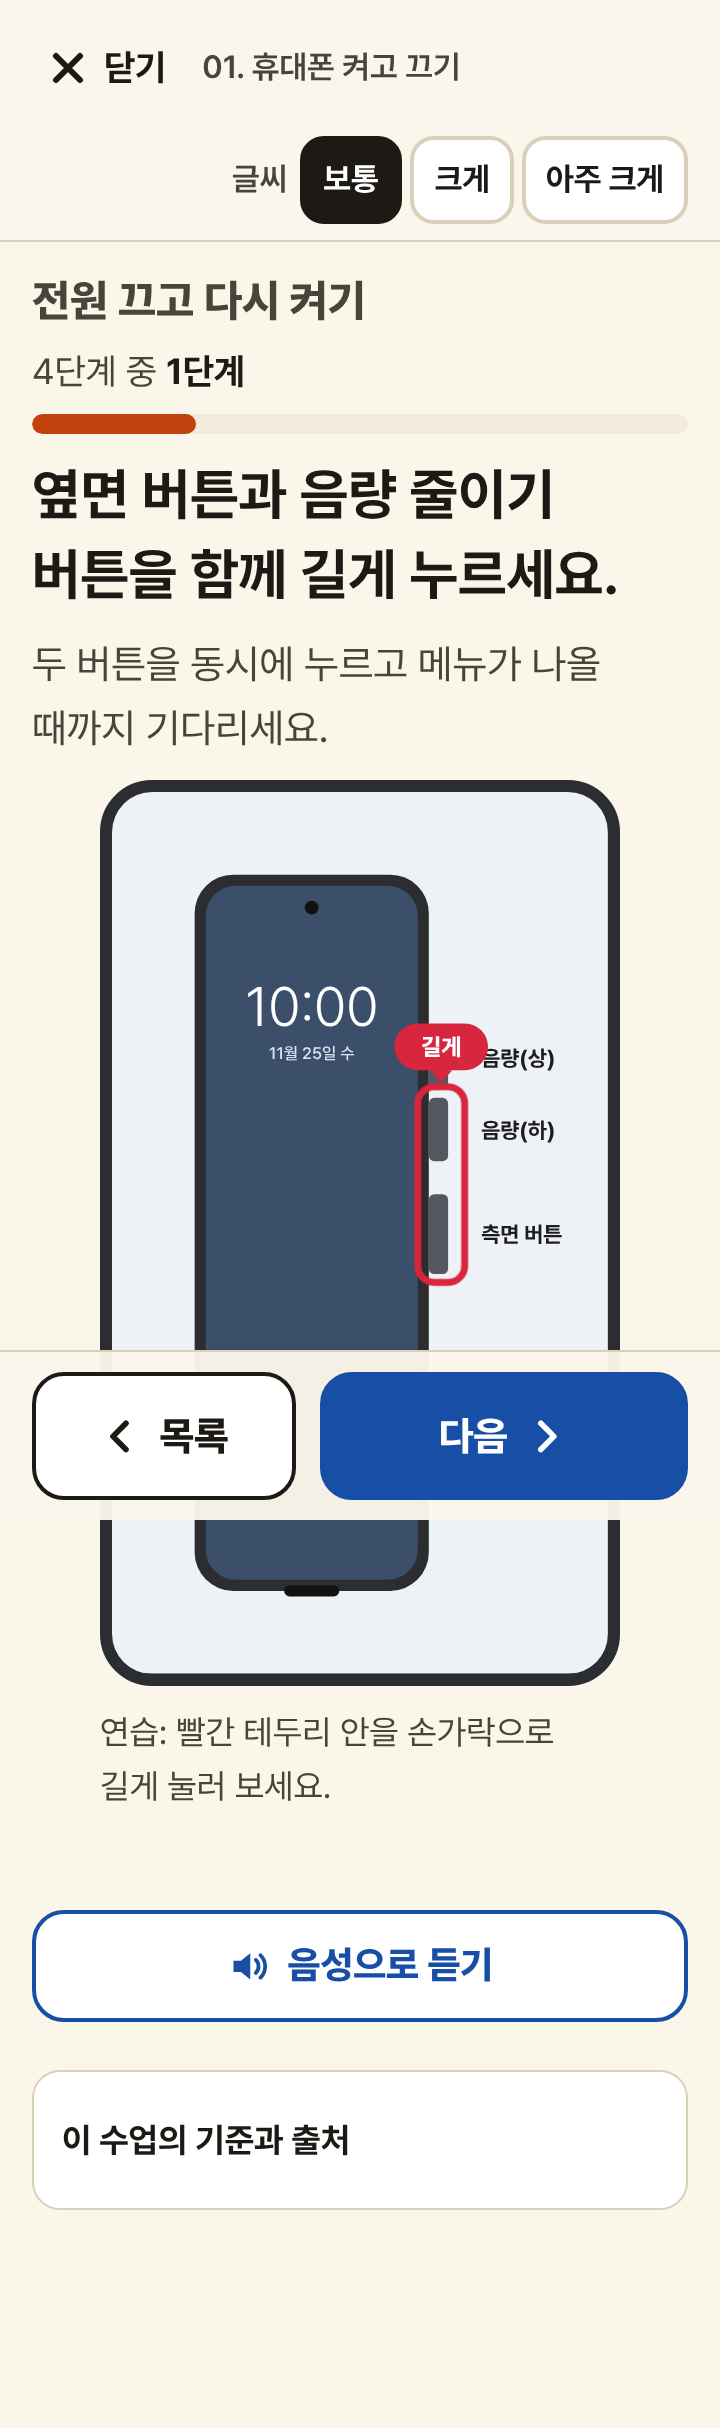
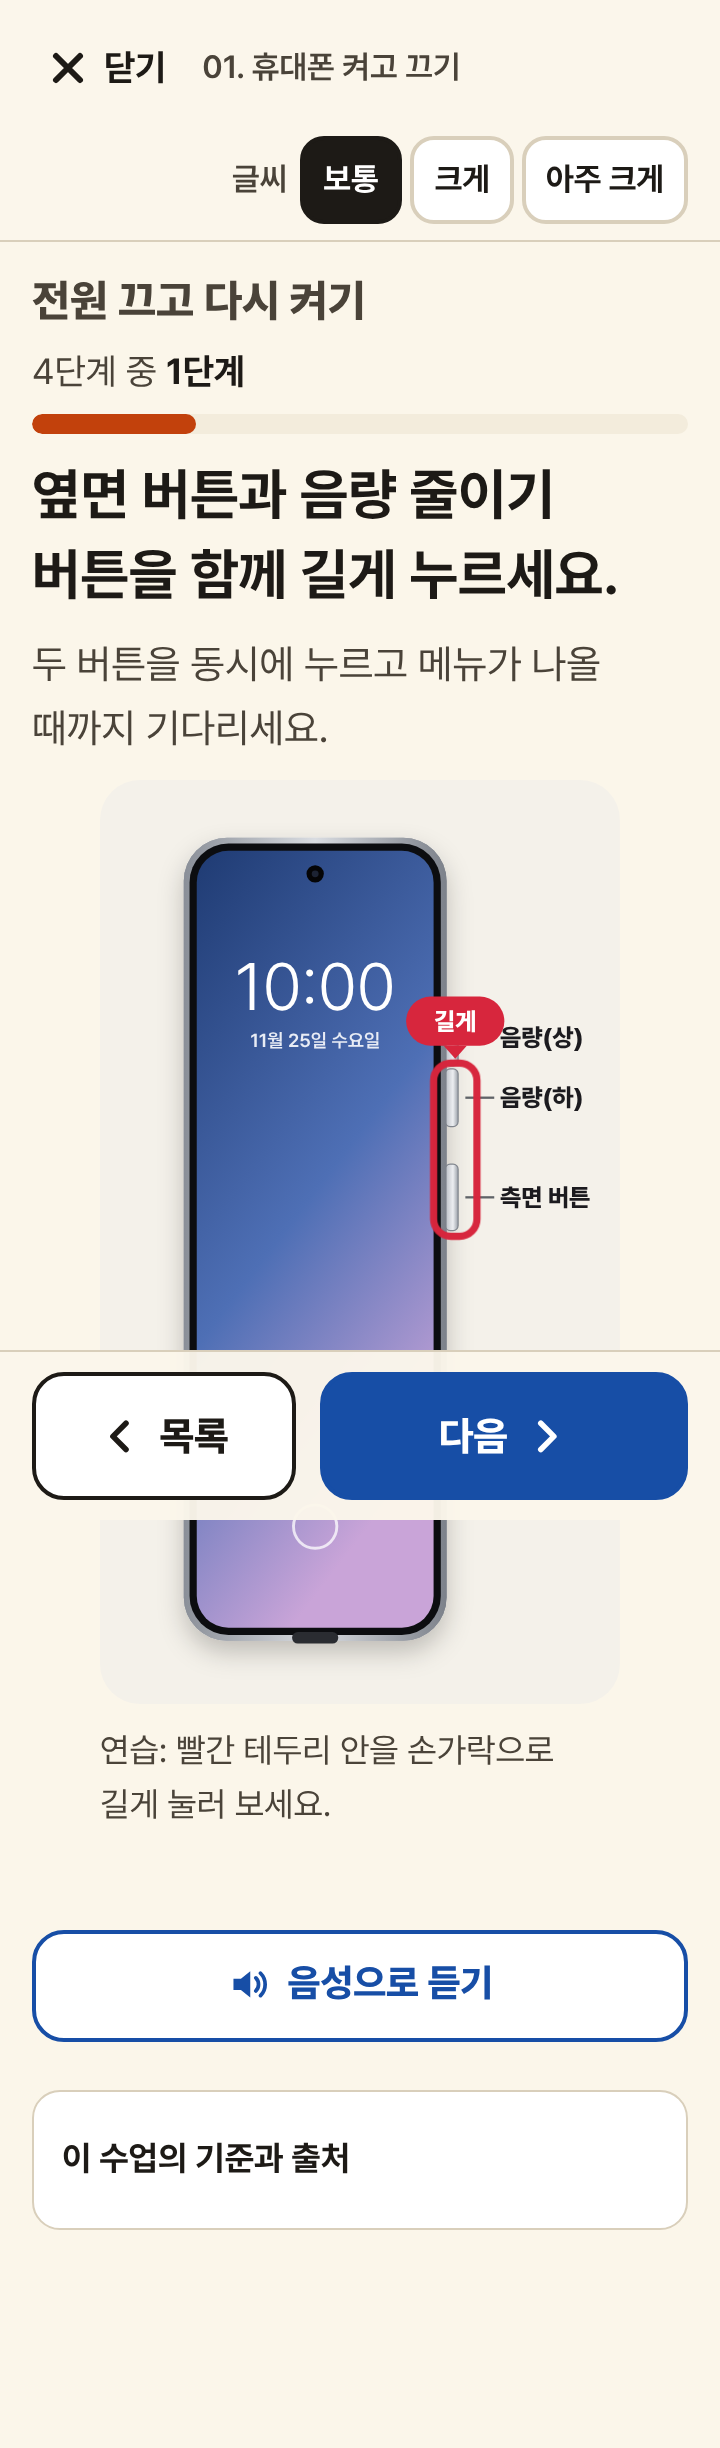
휴대폰 실물 그림: 금속 테두리·버튼·전면 카메라·잠금화면, 실물 카드는 바깥 화면 테두리 없이
Claude-Session: https://claude.ai/code/session_01Q3BcEgi969WHnWAarB2Rma

diff --git a/assets/screens.js b/assets/screens.js
@@ -9,7 +9,7 @@
  * - 실제 갤럭시 사진으로 바꿀 때는 card.photo 를 넣으면 이 그림 대신 사진이 쓰인다(app.js 참고).
  */
 
-import { appIconSvg, appInfo, settingIconSvg } from './apps.js?v=20261125.0747';
+import { appIconSvg, appInfo, settingIconSvg } from './apps.js?v=20261125.0752';
 
 const W = 360;
 const H = 640;
@@ -140,33 +140,55 @@ function wrapText(s, max) {
 const KINDS = {
   /** 휴대폰 앞면과 옆면 버튼 */
   side(c, s) {
-    c.rect(0, 0, W, H, '#EEF1F5');
-    c.rect(60, 60, 170, 520, '#2B2D31', 28);
-    c.rect(68, 68, 154, 504, s.screenOff ? '#0B0B0D' : '#3B4F6B', 22);
-    c.add('<circle cx="145" cy="84" r="5" fill="#111"/>');
-    if (!s.screenOff) {
-      c.text(145, 170, '10:00', { size: 40, fill: '#fff', weight: 300, anchor: 'middle' });
-      c.text(145, 194, '11월 25일 수', { size: 12, fill: '#DCE3EE', anchor: 'middle' });
-    }
-    // 오른쪽 옆면 버튼(위에서부터 음량(상), 음량(하), 측면 버튼). 이름표는 테두리 바깥에 둔다.
-    const btn = (name, label, y, h) => {
-      c.rect(230, y, 14, h, '#55585E', 4);
-      c.reg(name, 222, y - 6, 34, h + 12);
-      c.text(268, y + h / 2 + 6, label, { size: 16, fill: C.ink, weight: 700 });
+    // 갤럭시 S26 실물에 가깝게: 금속 테두리, 얇은 화면 테두리, 전면 카메라 구멍, 오른쪽 옆면 버튼
+    c.rect(0, 0, W, H, '#F4F1EA');
+    c.add(`<defs>
+      <linearGradient id="sv-frame" x1="0" x2="1"><stop offset="0" stop-color="#8A8F98"/><stop offset="0.5" stop-color="#D9DCE1"/><stop offset="1" stop-color="#7C818A"/></linearGradient>
+      <linearGradient id="sv-btn" x1="0" x2="1"><stop offset="0" stop-color="#B9BDC4"/><stop offset="0.6" stop-color="#ECEEF1"/><stop offset="1" stop-color="#9AA0A8"/></linearGradient>
+      <linearGradient id="sv-wall" x1="0" y1="0" x2="0.4" y2="1"><stop offset="0" stop-color="#1F3B73"/><stop offset="0.55" stop-color="#4E6FB5"/><stop offset="1" stop-color="#C9A4D8"/></linearGradient>
+      <filter id="sv-shadow" x="-20%" y="-10%" width="140%" height="120%"><feDropShadow dx="0" dy="8" stdDeviation="9" flood-color="#000" flood-opacity="0.22"/></filter>
+    </defs>`);
+    const X = 58; const Y = s.cable ? -260 : 40; const PW = 182; // 충전 카드는 아래쪽이 보이게 올려 그림
+    const ph = 556; // 휴대폰 높이(가로:세로 ≈ 1:2.1)
+    // 오른쪽 옆면 버튼(테두리보다 살짝 튀어나옴): 위에서부터 음량(상)·음량(하) 한 줄 버튼, 그 아래 측면 버튼
+    const bx = X + PW - 1;
+    const btn = (name, y, h) => {
+      c.add(`<rect x="${bx}" y="${y}" width="9" height="${h}" rx="3.5" fill="url(#sv-btn)" stroke="#80858D" stroke-width="0.8"/>`);
+      c.reg(name, bx - 10, y - 6, 34, h + 12);
     };
-    btn('음량(상) 버튼', '음량(상)', 170, 46);
-    btn('음량(하) 버튼', '음량(하)', 222, 46);
-    btn('측면 버튼', '측면 버튼', 292, 58);
-    c.reg('측면 버튼과 음량(하) 버튼', 220, 212, 38, 146);
-    // 아래쪽 충전 연결잭
-    c.rect(125, 576, 40, 8, '#111', 4);
-    c.reg('충전 연결잭', 105, 568, 80, 40);
-    if (s.cable) {
-      c.rect(131, 588, 28, 30, '#E0E0E0', 4);
-      c.rect(139, 618, 12, 22, '#BDBDBD', 3);
-      c.text(196, 612, '충전 연결잭', { size: 15, fill: C.ink, weight: 700 });
+    c.add(`<g filter="url(#sv-shadow)"><rect x="${X}" y="${Y}" width="${PW}" height="${ph}" rx="30" fill="url(#sv-frame)"/></g>`);
+    btn('음량(상) 버튼', Y + 118, 40);
+    btn('음량(하) 버튼', Y + 160, 40);
+    btn('측면 버튼', Y + 226, 46);
+    c.add(`<rect x="${X}" y="${Y}" width="${PW}" height="${ph}" rx="30" fill="url(#sv-frame)"/>`);
+    c.add(`<rect x="${X + 4}" y="${Y + 4}" width="${PW - 8}" height="${ph - 8}" rx="27" fill="#0C0D10"/>`);
+    // 화면
+    const sx = X + 9; const sy = Y + 9; const sw = PW - 18; const sh = ph - 18;
+    c.add(s.screenOff ? `<rect x="${sx}" y="${sy}" width="${sw}" height="${sh}" rx="22" fill="#050506"/>` : `<rect x="${sx}" y="${sy}" width="${sw}" height="${sh}" rx="22" fill="url(#sv-wall)"/>`);
+    c.add(`<circle cx="${X + PW / 2}" cy="${sy + 16}" r="6" fill="#050506"/><circle cx="${X + PW / 2}" cy="${sy + 16}" r="2.4" fill="#1C2333"/>`);
+    if (!s.screenOff) {
+      c.text(X + PW / 2, sy + 110, '10:00', { size: 46, fill: '#fff', weight: 300, anchor: 'middle' });
+      c.text(X + PW / 2, sy + 136, '11월 25일 수요일', { size: 13, fill: '#E8ECF5', anchor: 'middle', weight: 600 });
+      c.add(`<circle cx="${X + PW / 2}" cy="${sy + sh - 70}" r="15" fill="none" stroke="rgba(255,255,255,0.75)" stroke-width="2"/>`);
     }
-    if (s.caption) c.text(180, 40, s.caption, { size: 16, anchor: 'middle', weight: 700, fill: C.ink });
+    // 버튼 이름표: 가는 선으로 이어서 테두리 밖에 표시
+    const tag = (label, y) => {
+      c.add(`<line x1="${bx + 14}" y1="${y}" x2="${bx + 34}" y2="${y}" stroke="#5F6368" stroke-width="1.6"/>`);
+      c.text(bx + 38, y + 6, label, { size: 17, fill: C.ink, weight: 800 });
+    };
+    tag('음량(상)', Y + 138);
+    tag('음량(하)', Y + 180);
+    tag('측면 버튼', Y + 249);
+    c.reg('측면 버튼과 음량(하) 버튼', bx - 10, Y + 154, 34, 124);
+    // 아래쪽 USB-C 충전 연결잭
+    const px = X + PW / 2;
+    c.add(`<rect x="${px - 16}" y="${Y + ph - 6}" width="32" height="8" rx="4" fill="#2A2C31"/>`);
+    c.reg('충전 연결잭', px - 40, Y + ph - 26, 80, 44);
+    if (s.cable) {
+      c.add(`<rect x="${px - 13}" y="${Y + ph + 4}" width="26" height="22" rx="5" fill="#F2F2F2" stroke="#C9CCD1"/><rect x="${px - 6}" y="${Y + ph + 26}" width="12" height="20" rx="4" fill="#E2E4E8"/>`);
+      c.add(`<line x1="${px + 22}" y1="${Y + ph + 12}" x2="${px + 44}" y2="${Y + ph + 12}" stroke="#5F6368" stroke-width="1.6"/>`);
+      c.text(px + 48, Y + ph + 18, '충전 연결잭', { size: 16, fill: C.ink, weight: 800 });
+    }
   },
 
   /** 홈 화면 또는 앱스 화면 */

diff --git a/assets/app.js b/assets/app.js
@@ -12,12 +12,12 @@
  *
  * 진행 상황과 글씨 크기는 이 기기의 localStorage 에만 저장한다(서버로 보내지 않음).
  */
-import { CATEGORIES } from '../data/categories.js?v=20261125.0747';
-import { CHAPTERS, GROUPS, findLesson, allLessons } from '../data/galaxy/index.js?v=20261125.0747';
-import { BASE } from '../data/galaxy/helpers.js?v=20261125.0747';
-import { renderScreen } from './screens.js?v=20261125.0747';
-import { appInfo, appIconStandalone } from './apps.js?v=20261125.0747';
-import { VERSION } from './version.js?v=20261125.0747';
+import { CATEGORIES } from '../data/categories.js?v=20261125.0752';
+import { CHAPTERS, GROUPS, findLesson, allLessons } from '../data/galaxy/index.js?v=20261125.0752';
+import { BASE } from '../data/galaxy/helpers.js?v=20261125.0752';
+import { renderScreen } from './screens.js?v=20261125.0752';
+import { appInfo, appIconStandalone } from './apps.js?v=20261125.0752';
+import { VERSION } from './version.js?v=20261125.0752';
 
 const STORE_KEY = 'dojeon365.galaxy.v1';
 const app = document.getElementById('app');
@@ -247,7 +247,7 @@ function viewIntro(lesson, chapter) {
     <section class="intro">
       <h2 class="intro__h" tabindex="-1" id="instr">${esc(i.title)}</h2>
       <p class="intro__text">${esc(i.text)}</p>
-      <figure class="stage stage--small"><div class="stage__frame"><div class="stage__pic" role="img" aria-label="${esc(i.alt)}">${pic.svg}</div></div></figure>
+      <figure class="stage stage--small stage--object"><div class="stage__frame"><div class="stage__pic" role="img" aria-label="${esc(i.alt)}">${pic.svg}</div></div></figure>
       <p class="intro__text">${esc(i.after)}</p>
     </section>
     <div class="intro__choices">
@@ -319,7 +319,7 @@ function viewCard(lesson, chapter, idx) {
     ${appTag(card)}
     ${card.hint ? `<p class="hint">${esc(card.hint)}</p>` : ''}
     ${card.note ? `<p class="note"><strong>기종에 따라 달라요</strong> ${esc(card.note)}</p>` : ''}
-    <figure class="stage" data-action="${esc(card.action)}">
+    <figure class="stage${card.photo || ['side', 'info'].includes(card.screen?.kind) ? ' stage--object' : ''}" data-action="${esc(card.action)}">
       ${cardFigure(card)}
       <figcaption class="stage__cap">${esc(practiceHint(card))}</figcaption>
     </figure>

diff --git a/data/galaxy/ch14-22.js b/data/galaxy/ch14-22.js
@@ -1,5 +1,5 @@
 /** [응용] 14~18, [고급 및 문제 해결] 19~22 */
-import { lesson, app, tap, menu, path, toggle, self, look, swipe, hold, back, goHome, openQuick, M, SRC, MENUS, SIDE, HOME, QUICK, PRACTICE_ONLY } from './helpers.js?v=20261125.0747';
+import { lesson, app, tap, menu, path, toggle, self, look, swipe, hold, back, goHome, openQuick, M, SRC, MENUS, SIDE, HOME, QUICK, PRACTICE_ONLY } from './helpers.js?v=20261125.0752';
 
 const WALLET = { kind: 'app', title: '월렛', back: false, actions: ['추가'], hero: '결제 카드 ●●●● 1234', heroName: '결제 카드', heroColor: '#283593', lines: ['교통 카드 · 멤버십 · 모바일 신분증'] };
 const WALLET_ADD = { kind: 'dialog', style: 'sheet', title: '추가', buttons: ['결제 카드', '교통 카드', '모바일 신분증', '멤버십', '티켓·쿠폰'] };

diff --git a/index.html b/index.html
@@ -9,9 +9,9 @@
 <title>편한자판 시니어 교육</title>
 <link rel="icon" href="assets/icon.svg" type="image/svg+xml">
 <link rel="manifest" href="site.webmanifest">
-<link rel="stylesheet" href="assets/fonts/pretendard/pretendardvariable-dynamic-subset.css?v=20261125.0747">
-<link rel="stylesheet" href="assets/app.css?v=20261125.0747">
-<script type="module" src="assets/app.js?v=20261125.0747"></script>
+<link rel="stylesheet" href="assets/fonts/pretendard/pretendardvariable-dynamic-subset.css?v=20261125.0752">
+<link rel="stylesheet" href="assets/app.css?v=20261125.0752">
+<script type="module" src="assets/app.js?v=20261125.0752"></script>
 </head>
 <body>
 <a class="sr-only" href="#main">본문 바로가기</a>

diff --git a/data/galaxy/ch07-13.js b/data/galaxy/ch07-13.js
@@ -1,5 +1,5 @@
 /** [생활] 07~13 */
-import { lesson, app, tap, menu, path, toggle, self, look, swipe, hold, back, goHome, openQuick, openNoti, M, SRC, MENUS, SIDE, HOME, APPS, QUICK, NOTI, PRACTICE_ONLY } from './helpers.js?v=20261125.0747';
+import { lesson, app, tap, menu, path, toggle, self, look, swipe, hold, back, goHome, openQuick, openNoti, M, SRC, MENUS, SIDE, HOME, APPS, QUICK, NOTI, PRACTICE_ONLY } from './helpers.js?v=20261125.0752';
 
 const Q = (on) => ({ ...QUICK, on });
 

diff --git a/data/galaxy/index.js b/data/galaxy/index.js
@@ -1,7 +1,7 @@
 /** 갤럭시 휴대폰 사용방법: 22개 목차 */
-import { BASIC } from './ch01-06.js?v=20261125.0747';
-import { LIFE } from './ch07-13.js?v=20261125.0747';
-import { APPLY, ADV } from './ch14-22.js?v=20261125.0747';
+import { BASIC } from './ch01-06.js?v=20261125.0752';
+import { LIFE } from './ch07-13.js?v=20261125.0752';
+import { APPLY, ADV } from './ch14-22.js?v=20261125.0752';
 
 export const GROUPS = [
   { id: 'basic', title: '기초' },

diff --git a/data/galaxy/ch01-06.js b/data/galaxy/ch01-06.js
@@ -1,5 +1,5 @@
 /** [기초] 01~06 */
-import { lesson, app, tap, menu, path, toggle, self, look, swipe, hold, back, goHome, M, SRC, MENUS, SIDE, HOME, APPS, PHONE_TABS, PRACTICE_ONLY } from './helpers.js?v=20261125.0747';
+import { lesson, app, tap, menu, path, toggle, self, look, swipe, hold, back, goHome, M, SRC, MENUS, SIDE, HOME, APPS, PHONE_TABS, PRACTICE_ONLY } from './helpers.js?v=20261125.0752';
 
 const POWER = { kind: 'dialog', style: 'power' };
 

diff --git a/data/galaxy/helpers.js b/data/galaxy/helpers.js
@@ -16,7 +16,7 @@
  * 메뉴 이름은 삼성전자 갤럭시 S26 시리즈 사용 설명서(Android 17, Rev.1.0, 2026년 9월)를 기준으로 한다.
  */
 
-import { appInfo } from '../../assets/apps.js?v=20261125.0747';
+import { appInfo } from '../../assets/apps.js?v=20261125.0752';
 
 /* ---------- 출처 ---------- */
 

diff --git a/assets/app.css b/assets/app.css
@@ -246,3 +246,5 @@ svg { display: block; }
 }
 
 .version { margin: 28px 0 0; font-size: 0.9375rem; color: var(--ink-2); }
+.stage--object .stage__frame { border: 0; border-radius: 20px; background: transparent; }
+.stage--object.stage--ok .stage__frame { outline: 4px solid var(--ok); }

diff --git a/assets/version.js b/assets/version.js
@@ -1,2 +1,2 @@
 /** 배포 버전(scripts/bump-version.mjs 가 적음) */
-export const VERSION = '20261125.0747';
+export const VERSION = '20261125.0752';

diff --git a/docs/test-report.md b/docs/test-report.md
@@ -1,6 +1,6 @@
 # 브라우저 점검 결과
 
-- 실행: 2026-11-25 07:49 UTC, Chromium(Playwright), 360px 기준, 대상 http://127.0.0.1:42061/
+- 실행: 2026-11-25 07:53 UTC, Chromium(Playwright), 360px 기준, 대상 http://127.0.0.1:43979/
 - 결과: 59/59 통과
 
 | 항목 | 결과 | 비고 |
